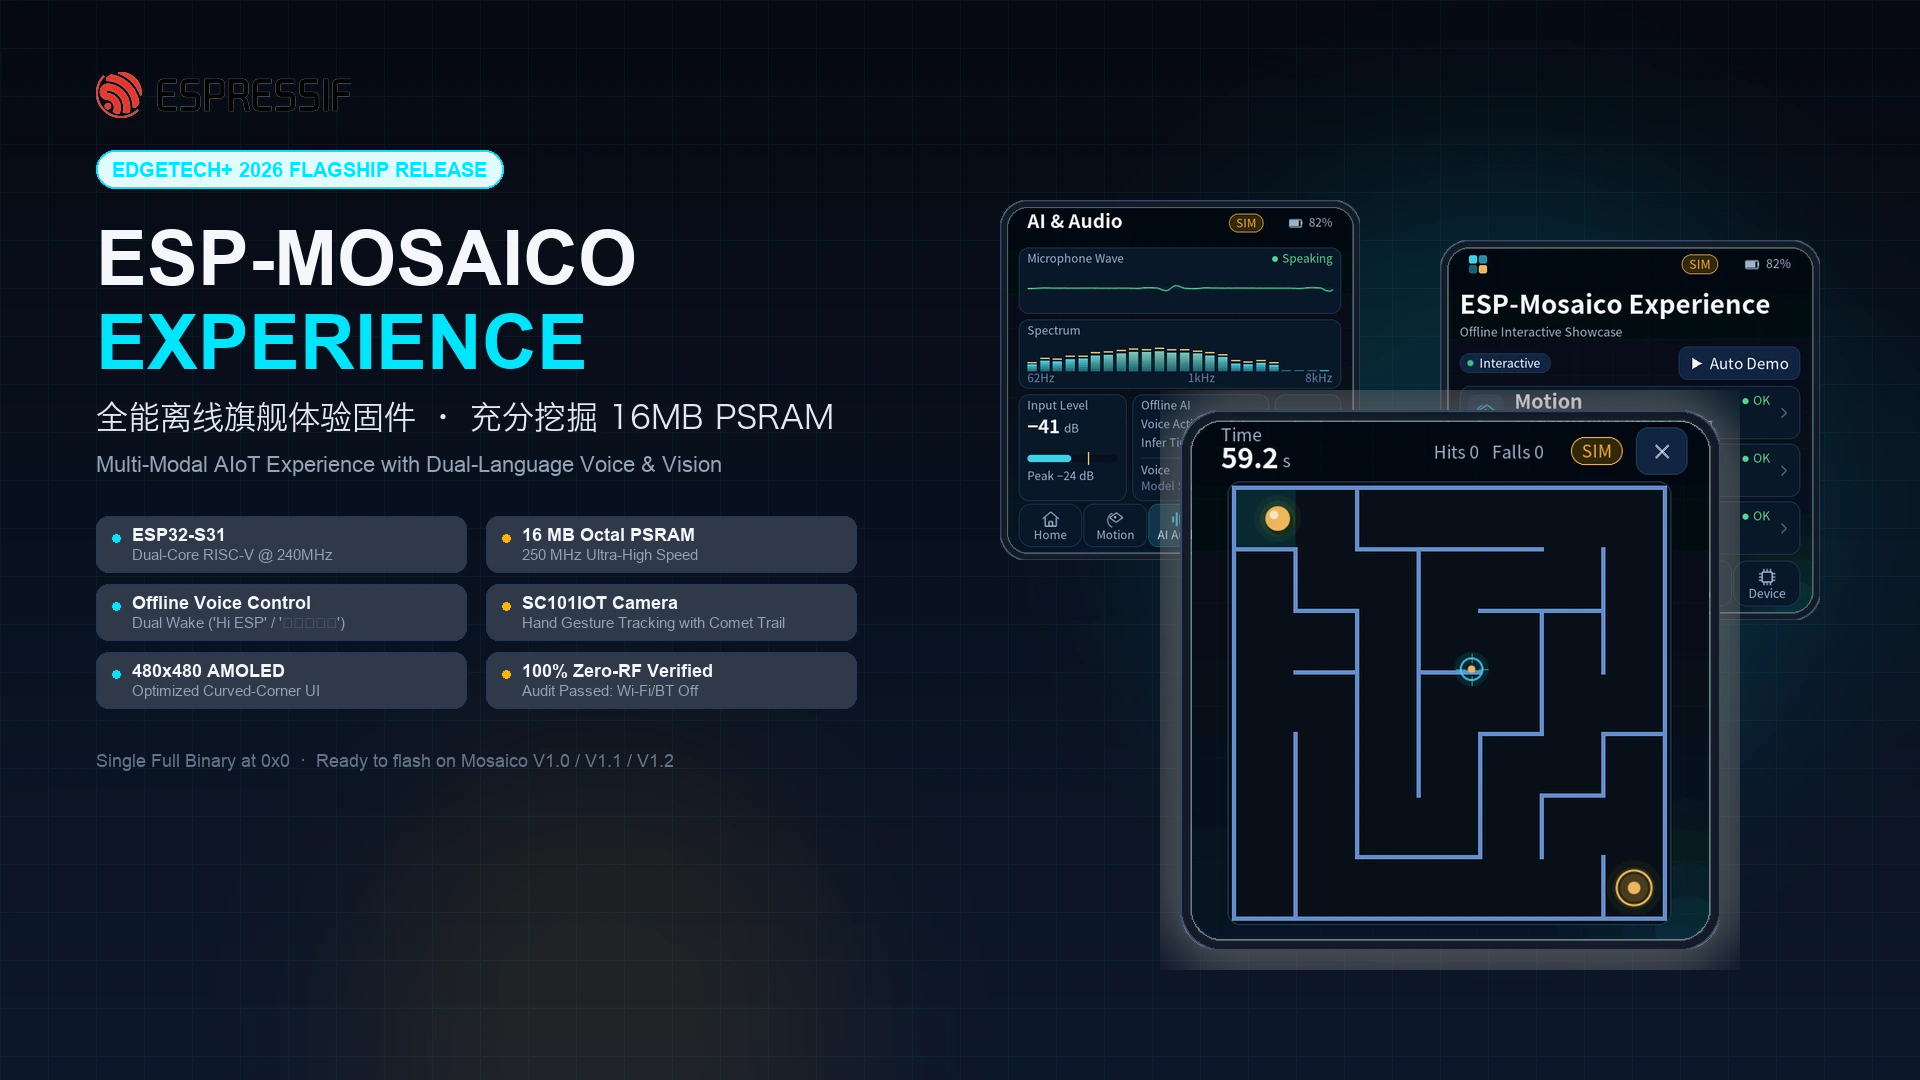
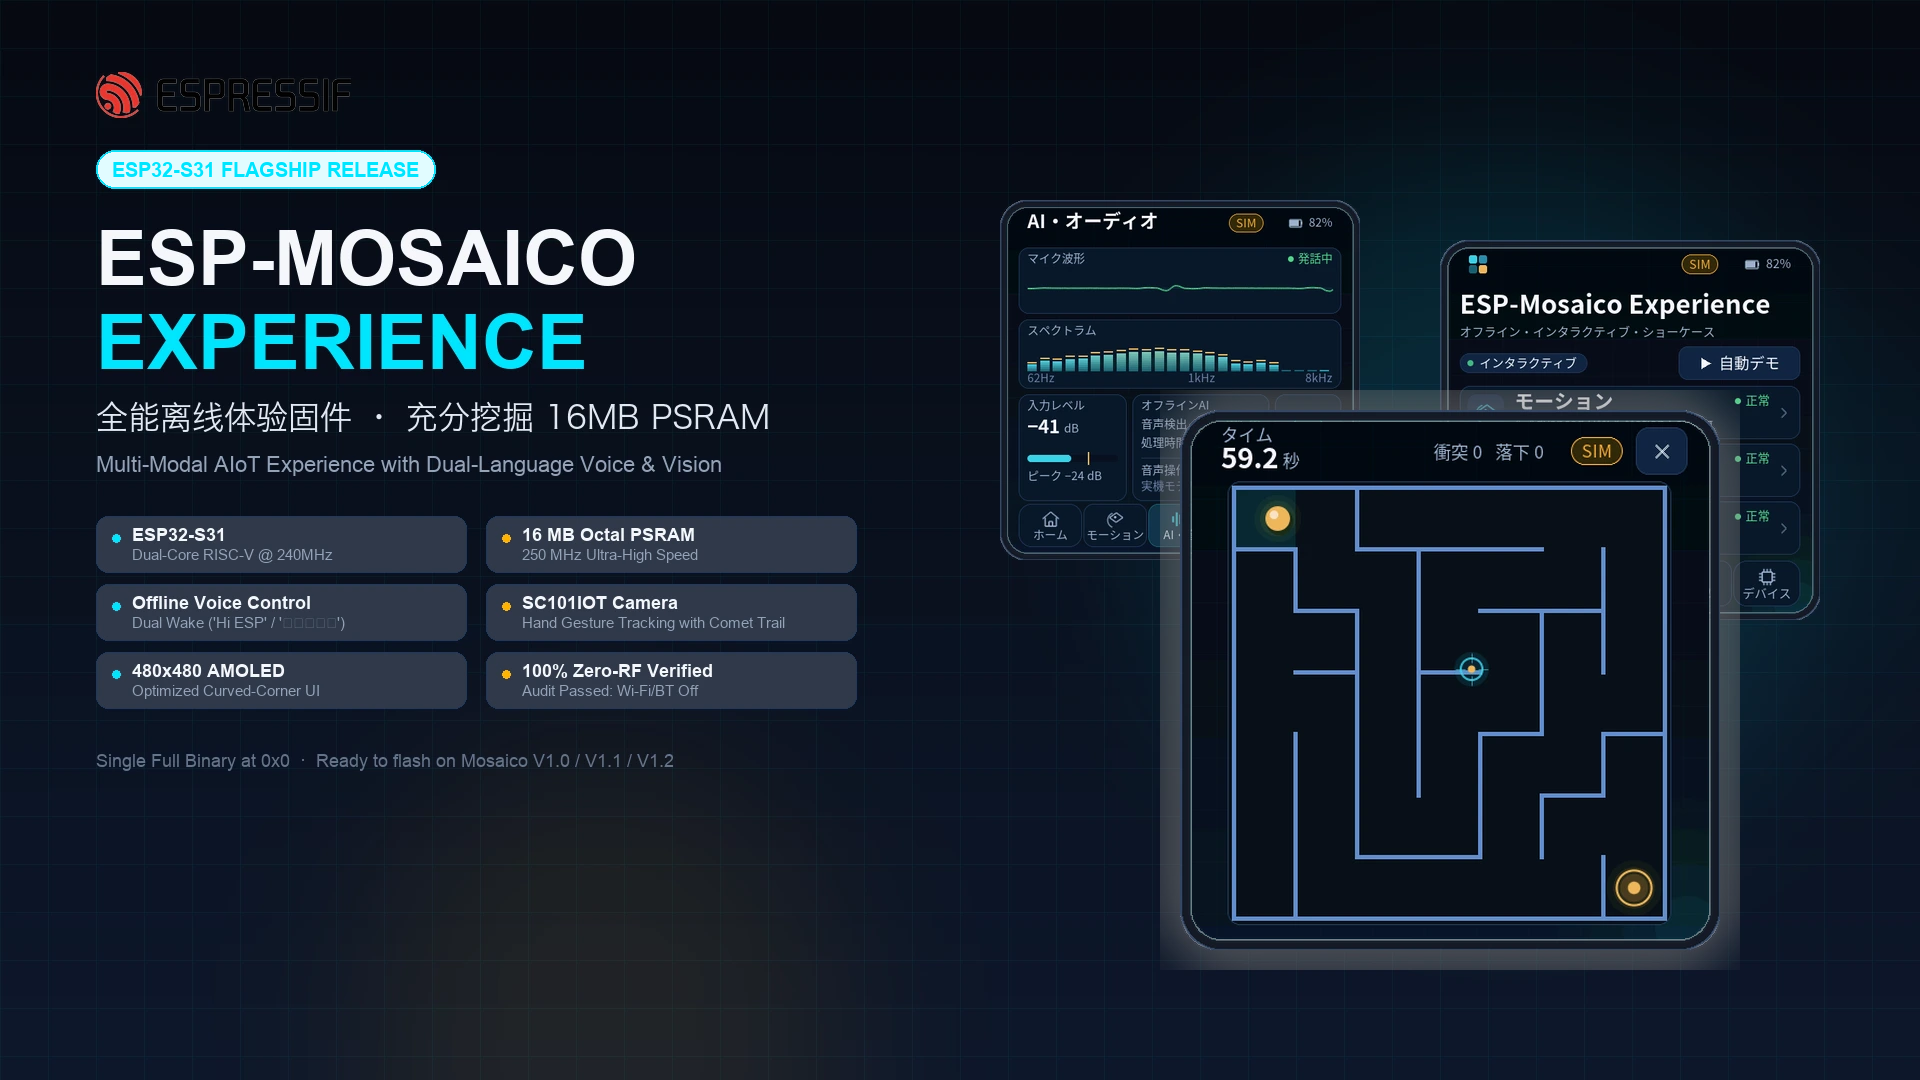
fix(covers): resolve missing glyph tofu boxes and remove exhibition branding

diff --git a/scripts/gen_cover_images.py b/scripts/gen_cover_images.py
@@ -96,7 +96,7 @@ def make_hero_cover():
 
     # Category Pill
     pill_font = get_font(FONT_HEADING, 20)
-    pill_text = "EDGETECH+ 2026 FLAGSHIP RELEASE"
+    pill_text = "ESP32-S31 FLAGSHIP RELEASE"
     pw = pill_font.getlength(pill_text) + 32
     draw.rounded_rectangle([96, 150, 96 + pw, 188], radius=19, fill=(0, 229, 255, 30), outline=C_ACCENT_CYAN, width=2)
     draw.text((112, 158), pill_text, font=pill_font, fill=C_ACCENT_CYAN)
@@ -107,7 +107,7 @@ def make_hero_cover():
     draw.text((96, 300), "EXPERIENCE", font=title_font, fill=C_ACCENT_CYAN)
 
     subtitle_font = get_font(FONT_CN, 32, index=0)
-    draw.text((96, 400), "全能离线旗舰体验固件 · 充分挖掘 16MB PSRAM", font=subtitle_font, fill=(226, 232, 240))
+    draw.text((96, 400), "全能离线体验固件 · 充分挖掘 16MB PSRAM", font=subtitle_font, fill=(226, 232, 240))
     
     en_sub_font = get_font(FONT_TEXT, 22)
     draw.text((96, 452), "Multi-Modal AIoT Experience with Dual-Language Voice & Vision", font=en_sub_font, fill=C_TEXT_MUTED)
@@ -193,15 +193,15 @@ def make_screens_showcase():
     # Header
     title_font = get_font(FONT_HEADING, 44)
     sub_font = get_font(FONT_CN, 24)
-    draw.text((96, 60), "ESP-MOSAICO EXPERIENCE — 五大功能界面", font=title_font, fill=C_TEXT_WHITE)
-    draw.text((96, 120), "480×480 AMOLED 全界面英文国际化与精细圆角排版，充分调用 16MB 高速 PSRAM", font=sub_font, fill=C_ACCENT_CYAN)
+    draw.text((96, 60), "ESP-MOSAICO EXPERIENCE — CORE INTERACTIVE SCREENS", font=title_font, fill=C_TEXT_WHITE)
+    draw.text((96, 120), "480×480 AMOLED 全界面精细排版 · 充分调用 16MB 高速 PSRAM", font=sub_font, fill=C_ACCENT_CYAN)
 
     screens_meta = [
-        ("Home 首页", "系统导航 / 磁吸状态", "home.png"),
-        ("Motion 姿态", "BMI270 + 双磁力计", "motion_compass_calibrated.png"),
-        ("Audio & AI", "瀑布频谱 / 离线语音", "audio_voice.png"),
-        ("Tilt Maze 迷宫", "手势彗星尾迹 / 重力", "game_playing_face.png"),
-        ("Device 设备", "16MB PSRAM / 架构看板", "device_modules.png"),
+        ("01 · Home", "System Navigation & Magnet Dock", "home.png"),
+        ("02 · Motion", "BMI270 IMU + Dual Magnetometers", "motion_compass_calibrated.png"),
+        ("03 · Audio & AI", "Dynamic Spectrum & Offline Speech", "audio_voice.png"),
+        ("04 · Tilt Maze", "Hand Gesture Tracking & IMU Tilt", "game_playing_face.png"),
+        ("05 · Device Info", "16MB PSRAM & System Dashboard", "device_modules.png"),
     ]
 
     card_w = 320
@@ -211,7 +211,7 @@ def make_screens_showcase():
     card_y = 200
 
     title_f = get_font(FONT_HEADING, 20)
-    desc_f = get_font(FONT_CN, 16)
+    desc_f = get_font(FONT_TEXT, 16)
 
     for i, (title, desc, filename) in enumerate(screens_meta):
         cx = start_x + i * (card_w + gap_x)

diff --git a/release/README.md b/release/README.md
@@ -1,4 +1,4 @@
-# Release Package: ESP-MOSAICO Experience (EdgeTech+ 2026)
+# Release Package: ESP-MOSAICO Experience Flagship Firmware
 
 This directory contains the latest production artifacts for the **ESP-MOSAICO Experience** flagship firmware, ready for publishing to **Mosaico Ideas** or local flashing.
 
